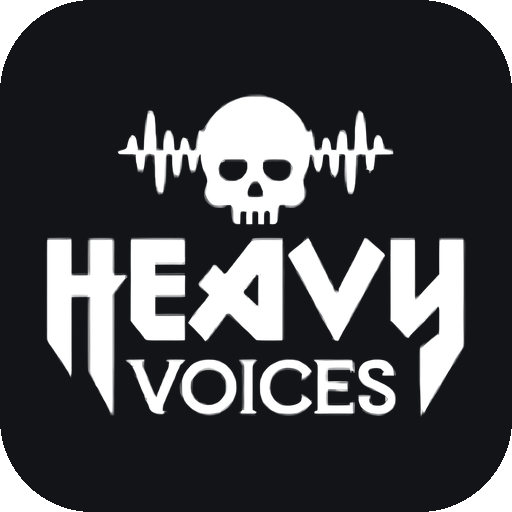
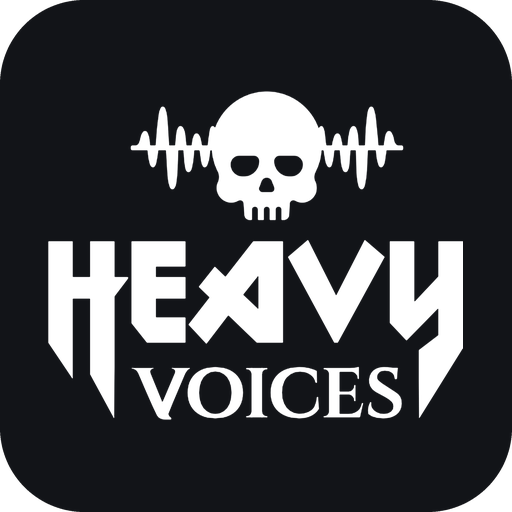
Ta bort gamla megafonloggan, nya loggan i appikonerna (apple-touch, 192, 512, maskable)
Claude-Session: https://claude.ai/code/session_01X6vNFQrByowmynBBT48c71

diff --git a/guide.html b/guide.html
@@ -4,7 +4,6 @@
 <meta charset="UTF-8">
 <meta name="viewport" content="width=device-width, initial-scale=1.0, viewport-fit=cover">
 <meta name="description" content="Animerade guider till Heavy Voices: så blir du medlem, så funkar medlemssidan, adminguide och guide för stämledare.">
-<link rel="icon" href="/heavyvoices-logo.png">
 <title>Heavy Voices Guide</title>
   <link rel="icon" href="/favicon.ico" sizes="any">
   <link rel="icon" type="image/png" sizes="32x32" href="/icons/favicon-32.png">
